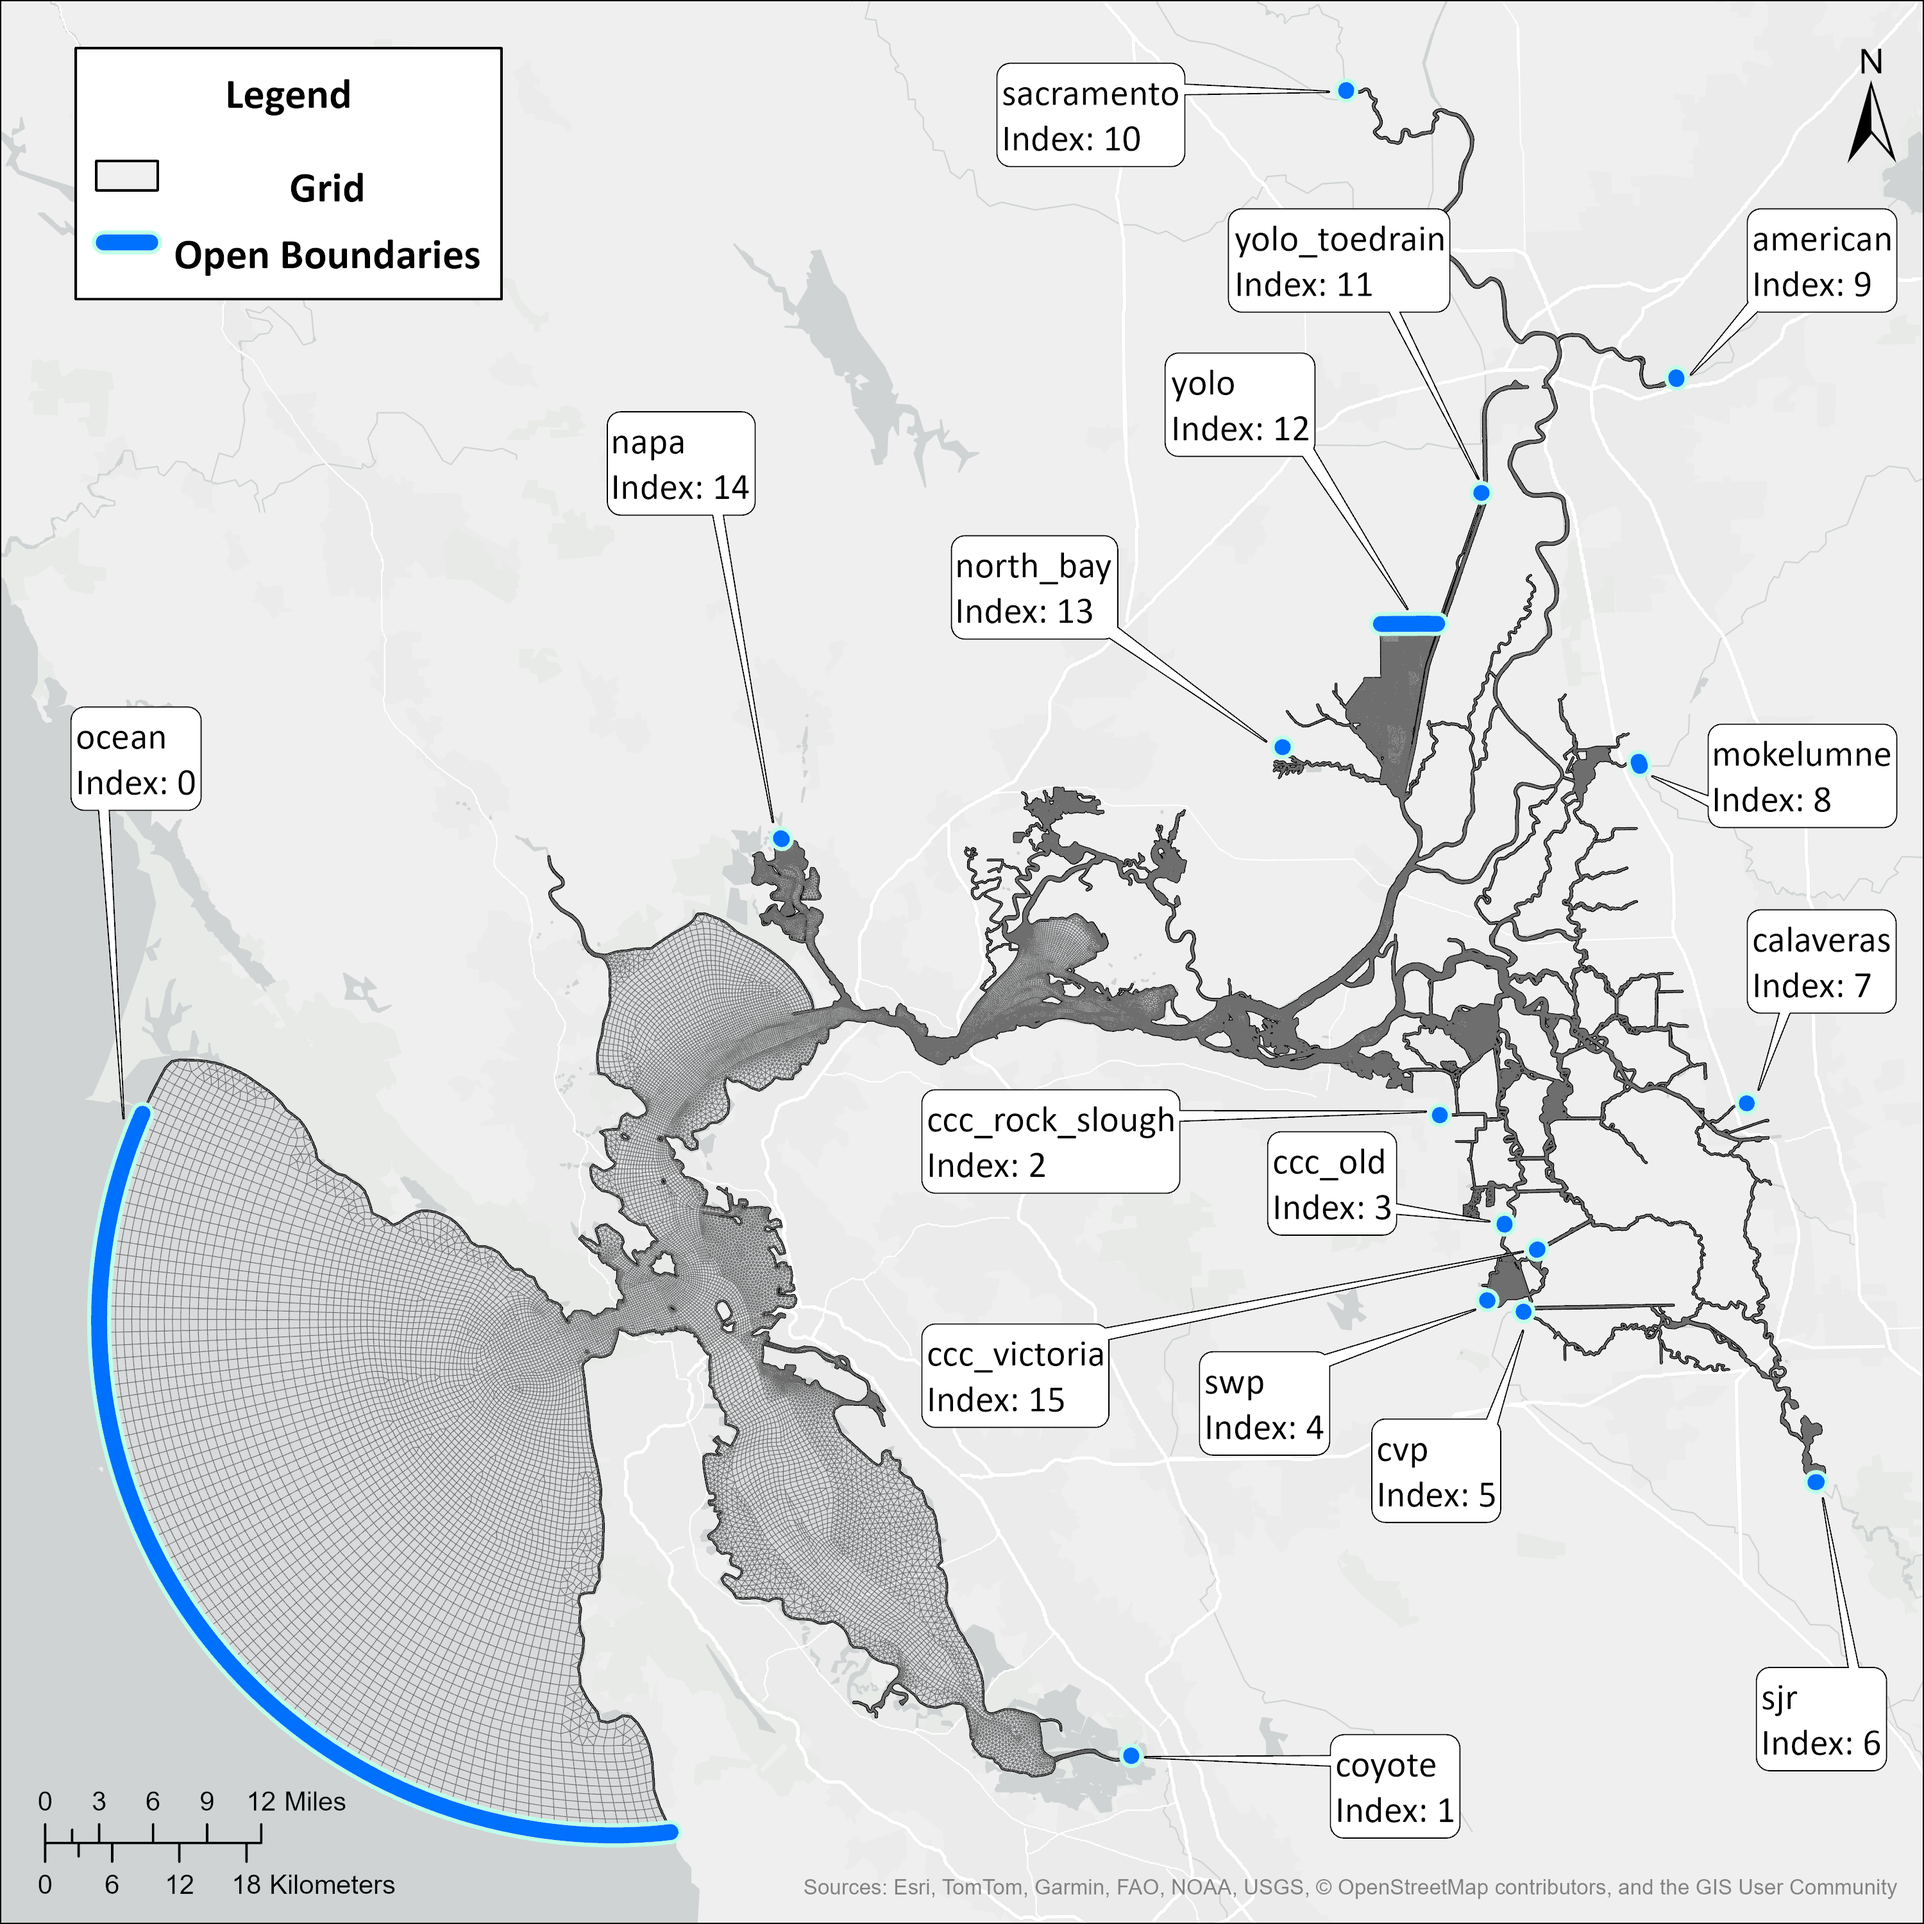
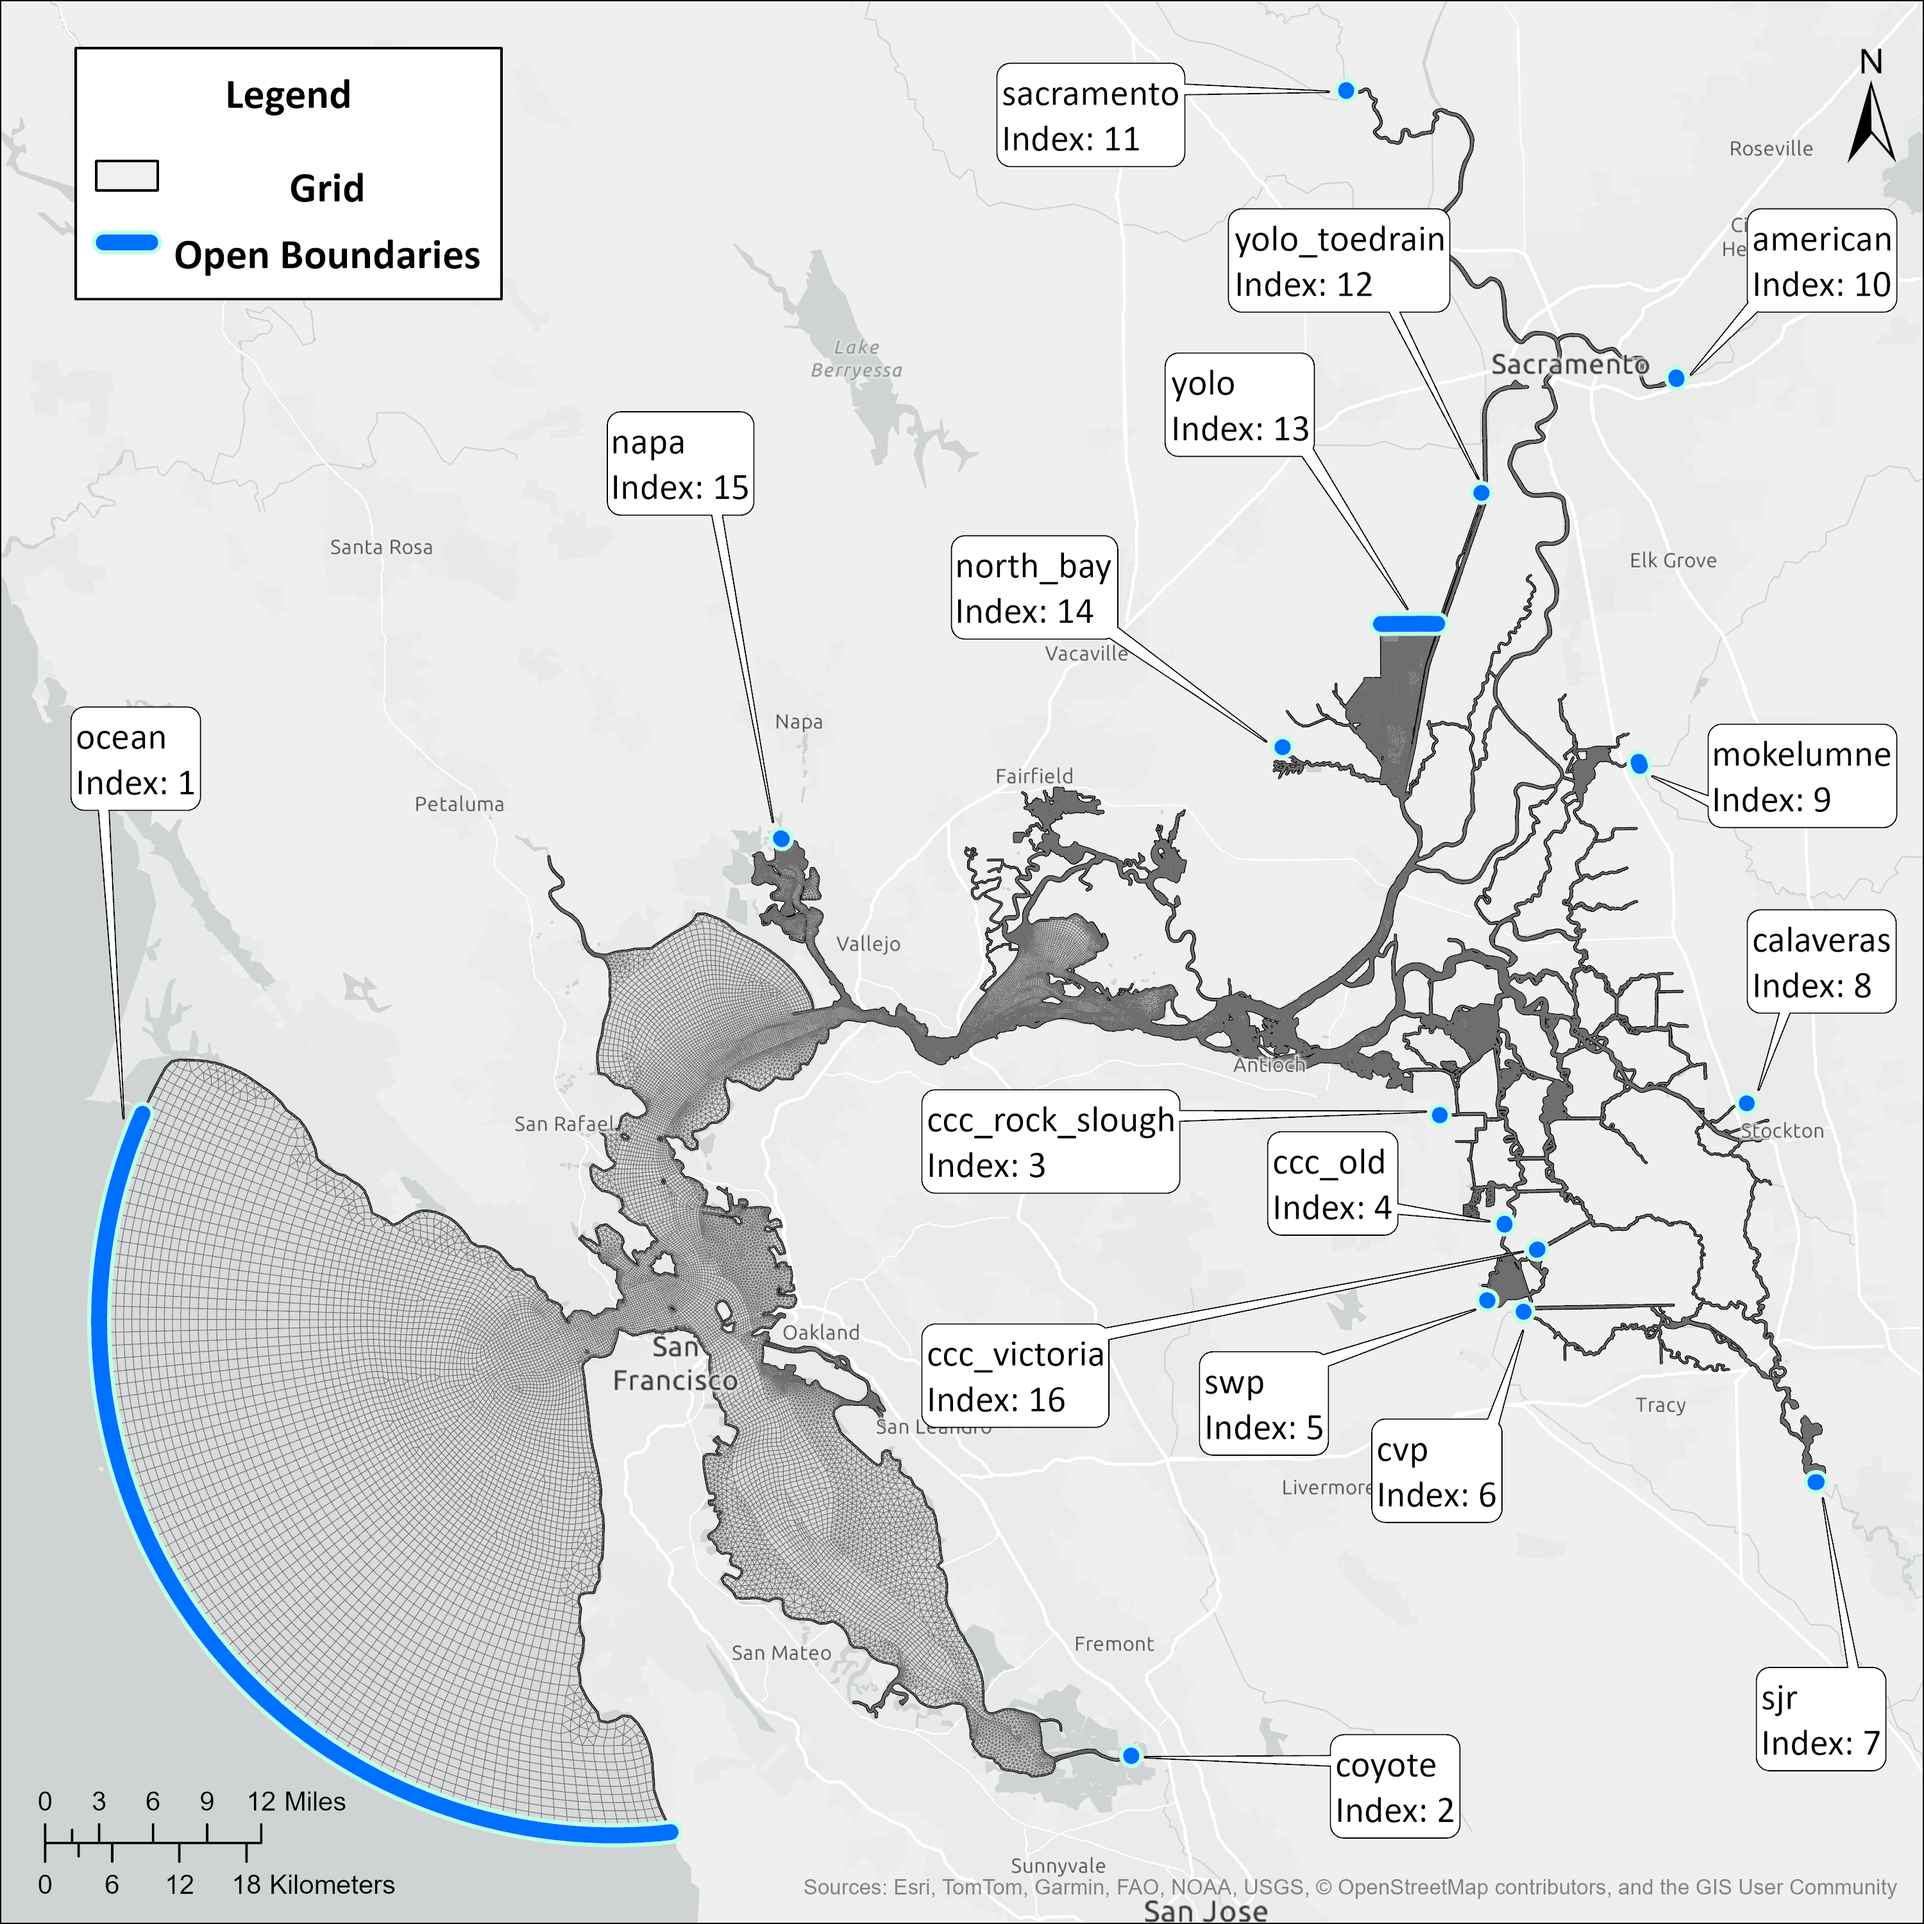
fix 1-based SCHISM bc indexing

diff --git a/docsrc/topics/baydelta_boundaries.rst b/docsrc/topics/baydelta_boundaries.rst
@@ -25,48 +25,42 @@ Note that the ocean boundary is a special case, as it has both elevation and vel
     - Sign in File
     - Input File
     - Description
-  * - 0
+  * - 1
     - ocean
     - elevation (**and** velocity in baroclinic mode)
     - Up is Positive
     - elev2d.th.nc (**and** uv3d.th.nc in baroclinic mode)
     - Ocean tidal inputs derived from Point Reyes and Monterey tidal stations
-  * - 1
+  * - 2
     - coyote
     - flow 
     - Negative
     - flux.th
     - Coyote Creek just north of Milpitas
-  * - 2
+  * - 3
     - ccc_rock_slough
     - flow
     - Positive
     - flux.th
     - Exports taken by Contra Costa Water District (CCWD) at Rock Slough Intake
-  * - 3
+  * - 4
     - ccc_old
     - flow
     - Positive
     - flux.th
     - Exports taken by CCWD at Old River Intake
-  * - 4
+  * - 5
     - swp
     - flow
     - Positive
     - flux.th
     - Exports taken by State Water Project (SWP) at Banks Pumping Plant
-  * - 5
+  * - 6
     - cvp
     - flow
     - Positive
     - flux.th
     - Exports taken by Central Valley Project (CVP) at Jones Pumping Plant
-  * - 6
-    - calaveras
-    - flow
-    - Negative
-    - flux.th
-    - Calaveras River in Stockton just East of Interstate 5
   * - 7
     - sjr
     - flow
@@ -74,42 +68,54 @@ Note that the ocean boundary is a special case, as it has both elevation and vel
     - flux.th
     - San Joaquin River at Vernalis, just downstream of confluence with Stanislaus River
   * - 8
+    - calaveras
+    - flow
+    - Negative
+    - flux.th
+    - Calaveras River in Stockton just East of Interstate 5
+  * - 9
     - mokelumne
     - flow
     - Negative
     - flux.th
     - Mokelumne River downstream of confluence with Cosumnes River
-  * - 9
+  * - 10
     - american
     - flow
     - Negative
     - flux.th
     - American River near Watte Ave bridge
-  * - 10
+  * - 11
     - sacramento
     - flow
     - Negative
     - flux.th
     - Sacramento River flow above Verona, includes interpolated flow from Feather River
-  * - 11
+  * - 12
     - yolo_toedrain
     - flow
     - Negative
     - flux.th
     - Flow into the Toe Drain of the Yolo Bypass, upstream of the Lisbon Weir
-  * - 12
+  * - 13
     - yolo
     - flow
     - Negative
     - flux.th
     - Flood flows from Yolo Bypass, includes Putah Creek, Willow Slough, Cache Creek, and flows from Sacramento River from Knights Landing Ridge Cut as well as from overtopping Fremont and Sacramento Weirs
-  * - 13
+  * - 14
     - north_bay
     - flow
     - Positive
     - flux.th
     - Exports through the North Bay Aqueduct Intake at Barker Slough
-  * - 14
+  * - 15
+    - napa
+    - flow
+    - Negative
+    - flux.th
+    - Napa River just West of the Napa County Airport
+  * - 16
     - ccc_victoria
     - flow
     - Positive
